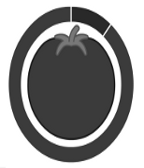
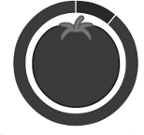
Propertional background and now display the remaining seconds

Changed region(s): [[0.0556, 0.0, 0.9722, 0.9778], [0.25, 0.2074, 0.2778, 0.237], [0.2222, 0.1185, 0.25, 0.1481]]

diff --git a/src/pomodoro.c b/src/pomodoro.c
@@ -16,12 +16,11 @@ TextLayer title_layer;
 TextLayer remaining_text_layer;
 TextLayer round_layer;
 AppContextRef app;
-
 #ifdef DEBUG
-#define TIMER_DELAY 1000
+#define TIMER_DELAY 100
 #define SHORT_TIMER_DELAY 1000
 #else
-#define TIMER_DELAY 60000
+#define TIMER_DELAY 1000
 #define SHORT_TIMER_DELAY 2000
 #endif
 
@@ -44,7 +43,7 @@ static const char relax_lenghts[NUM_RELAX_SETTINGS] = { 3, 4, 5, 6, 7, 8 };
 static int current_work_lenght_index = 0;
 static int current_relax_lenght_index = 0;
 static int remaining_time = -1; 
-static char remaining_time_text[2] = "00";
+static char remaining_time_text[5] = "00:00";
 static char round_display_time[5] = "--/--";
 
 void reset_work_count_down();
@@ -71,6 +70,24 @@ void itoa2(int num, char* buffer) {
     buffer[0] = '0';
   }
   buffer[1] = digits[num % 10];
+}
+
+void format_seconds(int seconds, char* display_buffer){
+  static char buffer[2];
+  if (seconds > 60){
+    itoa2(seconds/60, buffer);
+    display_buffer[0] = buffer[0];
+    display_buffer[1] = buffer[1];
+    seconds = seconds % 60;//removing the minutes;
+  }else{
+    display_buffer[0] = '0';
+    display_buffer[1] = '0';
+  }
+  display_buffer[2] = ':';
+
+  itoa2(seconds, buffer);
+  display_buffer[3] = buffer[0];
+  display_buffer[4] = buffer[1];
 }
 
 int get_current_work_length(){
@@ -101,7 +118,7 @@ void handle_init(AppContextRef ctx) {
 
   window_init(&window, "Pomodoro");
   window_stack_push(&window, true /* Animated */);
-  window_set_background_color(&window, GColorBlack);
+  window_set_background_color(&window, GColorWhite);
   window_set_fullscreen(&window, false);
   Layer *root_layer = window_get_root_layer(&window);
   // Set up a layer for the static watch face background
@@ -111,8 +128,8 @@ void handle_init(AppContextRef ctx) {
 
 
   initiate_text_layer(&title_layer, root_layer, GRect(55, 45, 50, 25)); 
-  initiate_text_layer(&remaining_text_layer, root_layer, GRect(55, 60, 25, 15)); 
-  initiate_text_layer(&round_layer, root_layer, GRect(55, 90, 45, 15)); 
+  initiate_text_layer(&remaining_text_layer, root_layer, GRect(55, 60, 35, 15)); 
+  initiate_text_layer(&round_layer, root_layer, GRect(55, 80, 45, 15)); 
   display_round();
   reset_work_count_down();
 
@@ -134,10 +151,10 @@ void display_round(){
 
 void display_time(){
   if (started){
-    itoa2(remaining_time, remaining_time_text);
+    format_seconds(remaining_time, remaining_time_text);
     text_layer_set_text(&remaining_text_layer, remaining_time_text);
   }else{
-    text_layer_set_text(&remaining_text_layer, "--");
+    text_layer_set_text(&remaining_text_layer, "--:--");
   }
 }
 
@@ -203,12 +220,12 @@ void stop_timer(){
 
 
 void reset_work_count_down(){
-  remaining_time = get_current_work_length();
+  remaining_time = get_current_work_length() * 60;
   working_mode = true;
   display_title_and_time();
 }
 void reset_relax_count_down(){
-  remaining_time = get_current_relax_length();
+  remaining_time = get_current_relax_length() * 60;
   working_mode = false;
   display_title_and_time();
 }
